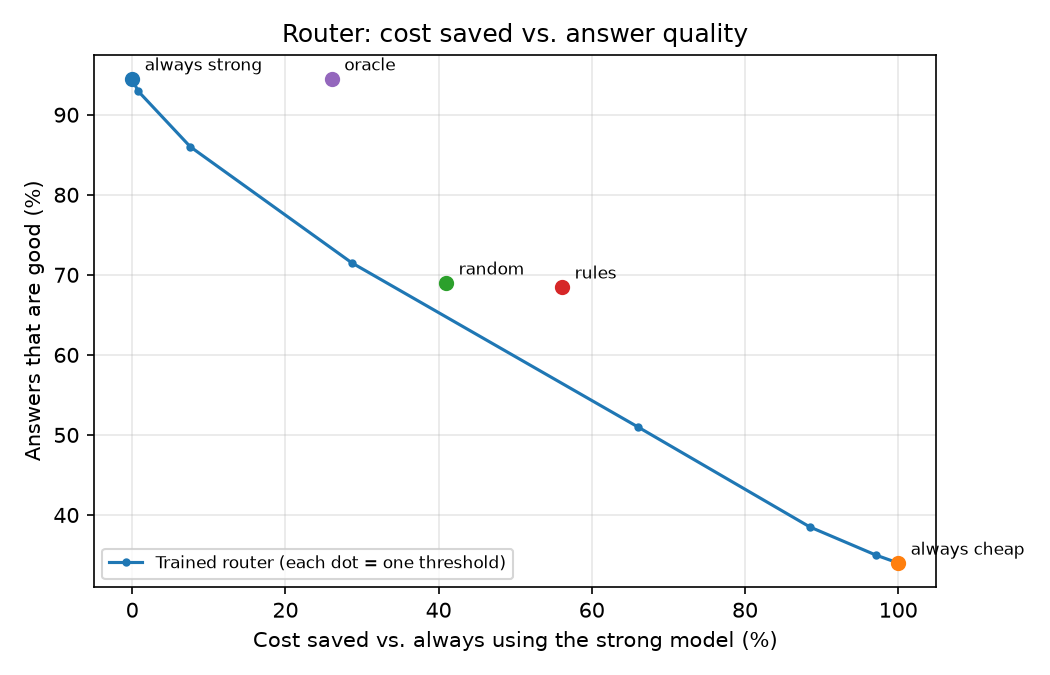
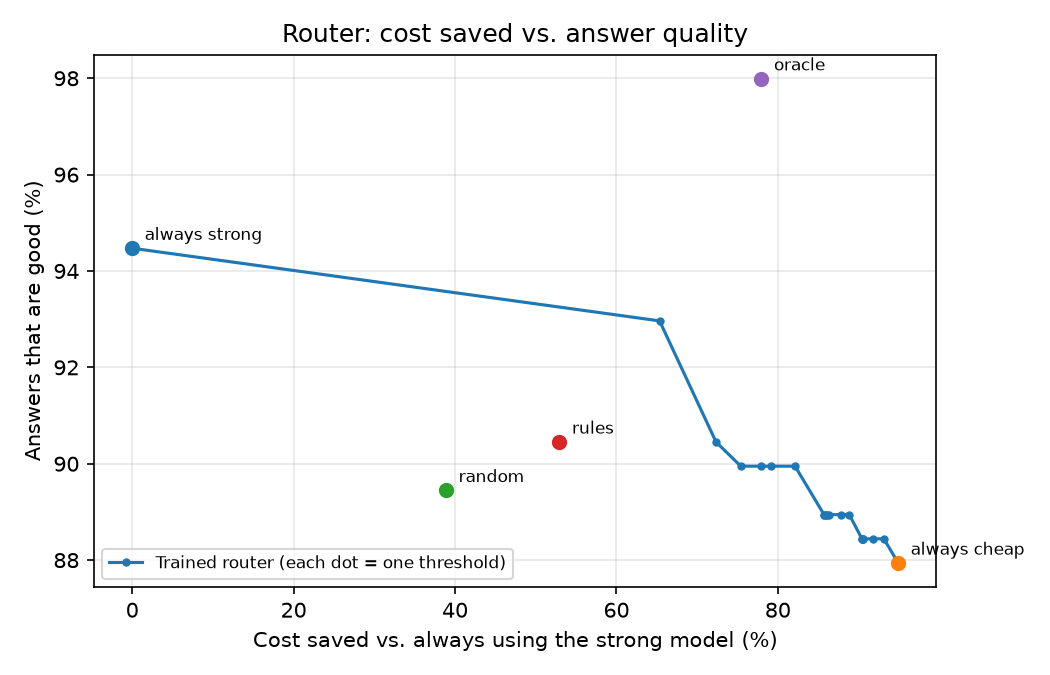
Use Claude Haiku as the cheap tier; scaled embedding router beats rules (AUC 0.735)

diff --git a/scripts/routing_data.py b/scripts/routing_data.py
@@ -8,8 +8,8 @@ How a decision is scored:
 - Sent to strong -> it's a good answer if the strong model was correct
                     (known for math; assumed correct for everyday questions,
                     since we didn't grade the strong model's everyday answers).
-- Cost is what the strong model actually cost on the questions sent to it.
-  The cheap model is free.
+- Cost is what each model actually cost on the questions sent to it
+  (zero for a free local cheap model).
 """
 
 import json
@@ -32,17 +32,17 @@ def read_jsonl(path):
 
 
 def load_items(labels_path):
-    """Labeled questions, each with what it cost to send it to the strong model."""
+    """Labeled questions, each with what it cost on the cheap and the strong model."""
     labels = read_jsonl(labels_path)
 
     # The labels file is named labels_<run>.jsonl; costs live in data/results/<run>.jsonl
     run_name = Path(labels_path).stem.removeprefix("labels_")
     results_path = RESULTS_DIR / f"{run_name}.jsonl"
-    strong_cost = {}
+    cost = {"cheap": {}, "strong": {}}
     if results_path.exists():
         for row in read_jsonl(results_path):
-            if row["tier"] == "strong" and row.get("cost_usd"):
-                strong_cost[row["id"]] = float(row["cost_usd"])
+            if row.get("cost_usd"):
+                cost.setdefault(row["tier"], {})[row["id"]] = float(row["cost_usd"])
 
     items = []
     for label in labels:
@@ -54,7 +54,8 @@ def load_items(labels_path):
             "question": label["question"],
             "good_enough": bool(label["good_enough"]),
             "strong_ok": label["strong_correct"] if label["strong_correct"] is not None else True,
-            "strong_cost": strong_cost.get(label["id"], 0.0),
+            "strong_cost": cost["strong"].get(label["id"], 0.0),
+            "cheap_cost": cost["cheap"].get(label["id"], 0.0),
         })
     return items
 
@@ -67,6 +68,7 @@ def evaluate(items, send_to_cheap):
     for item, cheap in zip(items, send_to_cheap):
         if cheap:
             good += item["good_enough"]
+            cost += item.get("cheap_cost", 0.0)
         else:
             good += item["strong_ok"]
             cost += item["strong_cost"]

diff --git a/scripts/merge_results.py b/scripts/merge_results.py
@@ -1,0 +1,55 @@
+"""Combine the cheap-model answers from one run with the strong-model answers from another.
+
+Useful when you change the cheap model: re-run only the cheap tier, then reuse the
+strong answers you already paid for, instead of paying for them again.
+
+Usage (from the project folder):
+    python -m scripts.merge_results --cheap data/results/run_NEW.jsonl --strong data/results/run_OLD.jsonl
+
+Writes data/results/run_<timestamp>_merged.jsonl, which grade and the router scripts can use.
+"""
+
+import argparse
+import json
+from datetime import datetime, timezone
+from pathlib import Path
+
+RESULTS_DIR = Path("data/results")
+
+
+def read_rows(path, tier):
+    with Path(path).open(encoding="utf-8") as f:
+        return [row for row in map(json.loads, filter(str.strip, f)) if row["tier"] == tier]
+
+
+def merge(cheap_path, strong_path):
+    cheap = read_rows(cheap_path, "cheap")
+    strong_by_id = {row["id"]: row for row in read_rows(strong_path, "strong")}
+    merged = []
+    for row in cheap:
+        merged.append(row)
+        if row["id"] in strong_by_id:
+            merged.append(strong_by_id[row["id"]])
+    missing = [row["id"] for row in cheap if row["id"] not in strong_by_id]
+    return merged, missing
+
+
+def main():
+    parser = argparse.ArgumentParser(description=__doc__, formatter_class=argparse.RawDescriptionHelpFormatter)
+    parser.add_argument("--cheap", required=True, help="Results file with the cheap-model answers to use")
+    parser.add_argument("--strong", required=True, help="Results file with the strong-model answers to reuse")
+    args = parser.parse_args()
+
+    merged, missing = merge(args.cheap, args.strong)
+    out_path = RESULTS_DIR / f"run_{datetime.now(timezone.utc):%Y%m%d_%H%M%S}_merged.jsonl"
+    with out_path.open("w", encoding="utf-8") as f:
+        for row in merged:
+            f.write(json.dumps(row, ensure_ascii=False) + "\n")
+
+    print(f"Saved {len(merged)} rows to {out_path}")
+    if missing:
+        print(f"Warning: {len(missing)} questions have no strong answer to reuse: {missing[:5]} ...")
+
+
+if __name__ == "__main__":
+    main()

diff --git a/tests/test_routing.py b/tests/test_routing.py
@@ -5,6 +5,7 @@ import pytest
 
 from app import embeddings
 from scripts import baseline_routers, routing_data
+from app.router_features import simple_features
 
 
 def make_items():
@@ -69,3 +70,43 @@ def test_embed_explains_when_ollama_is_off(monkeypatch):
     monkeypatch.setattr(embeddings, "EMBED_BASE_URL", "http://127.0.0.1:9/v1")
     with pytest.raises(embeddings.EmbeddingError, match="Is Ollama running"):
         embeddings.embed(["hello"])
+
+
+
+# --- Simple features (router day 4) ----------------------------------------------
+
+def test_simple_features_count_the_clues():
+    log_words, numbers, hard_words, question_marks = simple_features(
+        "Sara has 3 apples and buys 5 more. How many now?")
+    assert numbers == 2
+    assert hard_words == 1        # "how many"
+    assert question_marks == 1
+    assert log_words > 0
+
+
+
+# --- Paid cheap model and merging runs (Claude Haiku as the cheap tier) ----------
+
+def test_cheap_model_cost_is_counted():
+    items = make_items()
+    for item in items:
+        item["cheap_cost"] = 0.001
+    result = routing_data.evaluate(items, [True, True, False, False])
+    assert result["cost"] == pytest.approx(0.002 + 0.03 + 0.05)
+
+
+def test_merge_keeps_new_cheap_answers_and_reuses_strong_ones(tmp_path):
+    from scripts import merge_results
+
+    old = tmp_path / "old.jsonl"
+    new = tmp_path / "new.jsonl"
+    old.write_text("\n".join(json.dumps(r) for r in [
+        {"id": "q1", "tier": "cheap", "answer": "old cheap"},
+        {"id": "q1", "tier": "strong", "answer": "strong"},
+    ]), encoding="utf-8")
+    new.write_text(json.dumps({"id": "q1", "tier": "cheap", "answer": "new cheap"}), encoding="utf-8")
+
+    merged, missing = merge_results.merge(new, old)
+
+    assert [row["answer"] for row in merged] == ["new cheap", "strong"]
+    assert missing == []

diff --git a/scripts/train_router.py b/scripts/train_router.py
@@ -23,6 +23,9 @@ import numpy as np
 from sklearn.linear_model import LogisticRegression
 from sklearn.metrics import roc_auc_score
 from sklearn.model_selection import StratifiedKFold, cross_val_predict
+from sklearn.pipeline import make_pipeline
+from sklearn.preprocessing import StandardScaler
+
 
 from scripts.baseline_routers import rules_send_to_cheap
 from scripts.embed_questions import features_path
@@ -44,7 +47,9 @@ def load_training_data(labels_path):
 
 
 def make_model():
-    return LogisticRegression(max_iter=2000, C=1.0, class_weight="balanced")
+    # Same design that won in improve_router: scale each embedding number, then logistic regression.
+    return make_pipeline(StandardScaler(),
+                         LogisticRegression(max_iter=5000, C=1.0, class_weight="balanced"))
 
 
 def threshold_curve(items, probabilities):

diff --git a/app/pricing.py b/app/pricing.py
@@ -8,8 +8,8 @@ from decimal import Decimal
 PRICES_PER_MILLION = {
     "llama3.2": (Decimal("0"), Decimal("0")),
     "llama3.2:1b": (Decimal("0"), Decimal("0")),
-    # TODO: confirm on the official Claude pricing page before relying on costs
     "claude-sonnet-5-5": (Decimal("2"), Decimal("10")),
+    "claude-haiku-5-5": (Decimal("0.10"), Decimal("0.50"))
 }
 
 ONE_MILLION = Decimal(1_000_000)

diff --git a/DEVLOG.md b/DEVLOG.md
@@ -59,3 +59,26 @@
   - gsm8k-0017: divided dollars by the number of kids and called the result "books."
   - gsm8k-0016: misread what the question asked and gave an unrelated number.
 - Takeaway: multi-step word problems are exactly what the router should send to the strong model.
+
+## Nov 1: Claude Haiku as the cheap model
+
+What I did
+- Switched the cheap tier from local llama3.2:1b to Claude Haiku (only `.env` changed; the gateway code didn't).
+- Added `scripts/merge_results.py` so I only re-ran the cheap model and reused the Sonnet answers I'd already paid for.
+- Updated `routing_data.py` to count the cheap model's cost (it isn't free anymore).
+- Re-graded all 200 questions (judge cost $0.21) and re-ran every router.
+- Fixed `train_router.py` to use the same pipeline as `improve_router` (StandardScaler + logistic regression) and saved the new router model.
+- Tests: 36 passed.
+
+Results
+- Haiku was good enough on 175/199 questions (88%), compared with 34% for llama. On math it matched Sonnet exactly (89/100).
+- Always Haiku: 87.9% quality and 95% cheaper than always Sonnet (94.5% quality, $0.72 for 199 questions).
+- Hand-written rules: 90.5% quality, 53% savings. They sent all 100 math questions to Sonnet, which wasted money now that Haiku is as good at math.
+- Embedding router (scaled embeddings + logistic regression): cross-validated AUC 0.735 (llama: 0.46). It clearly beats the hand-written rules, but with only 24 Haiku failures in 199 questions, the exact savings at a given quality level are noisy (they swing between roughly 30% and 80%).
+- Oracle (perfect routing): 98% quality at 78% savings. Perfect routing beats always using Sonnet, because Haiku sometimes gets right what Sonnet gets wrong.
+
+**Learned**
+- Whether routing works depends on the cheap model: with a weak one, nothing works; with a strong one, routing pays off.
+- Rules written by hand encode assumptions that go stale when models change; a router trained on labels adapts.
+- My two scripts disagreed (AUC 0.675 vs 0.735) because one scaled the embeddings and one didn't. Training and evaluation must use exactly the same pipeline.
+- Caveat: Sonnet's everyday answers are assumed correct, so "always Sonnet" quality is slightly flattered.
